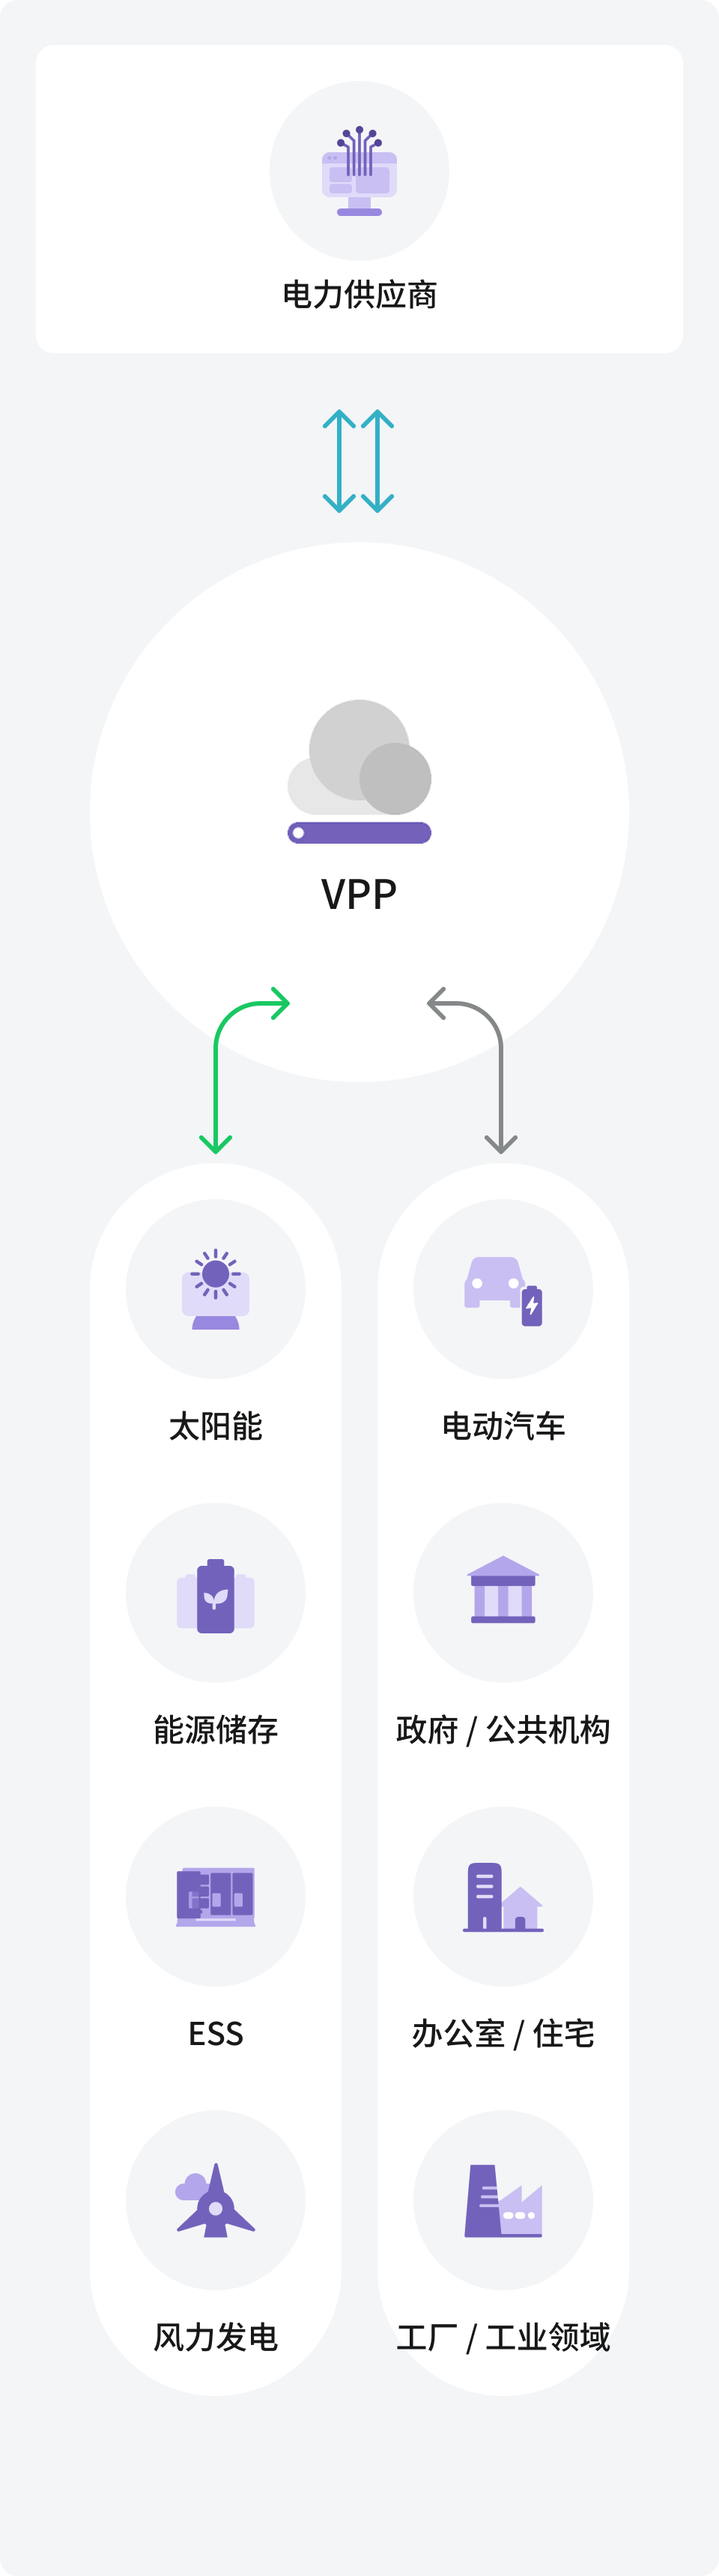
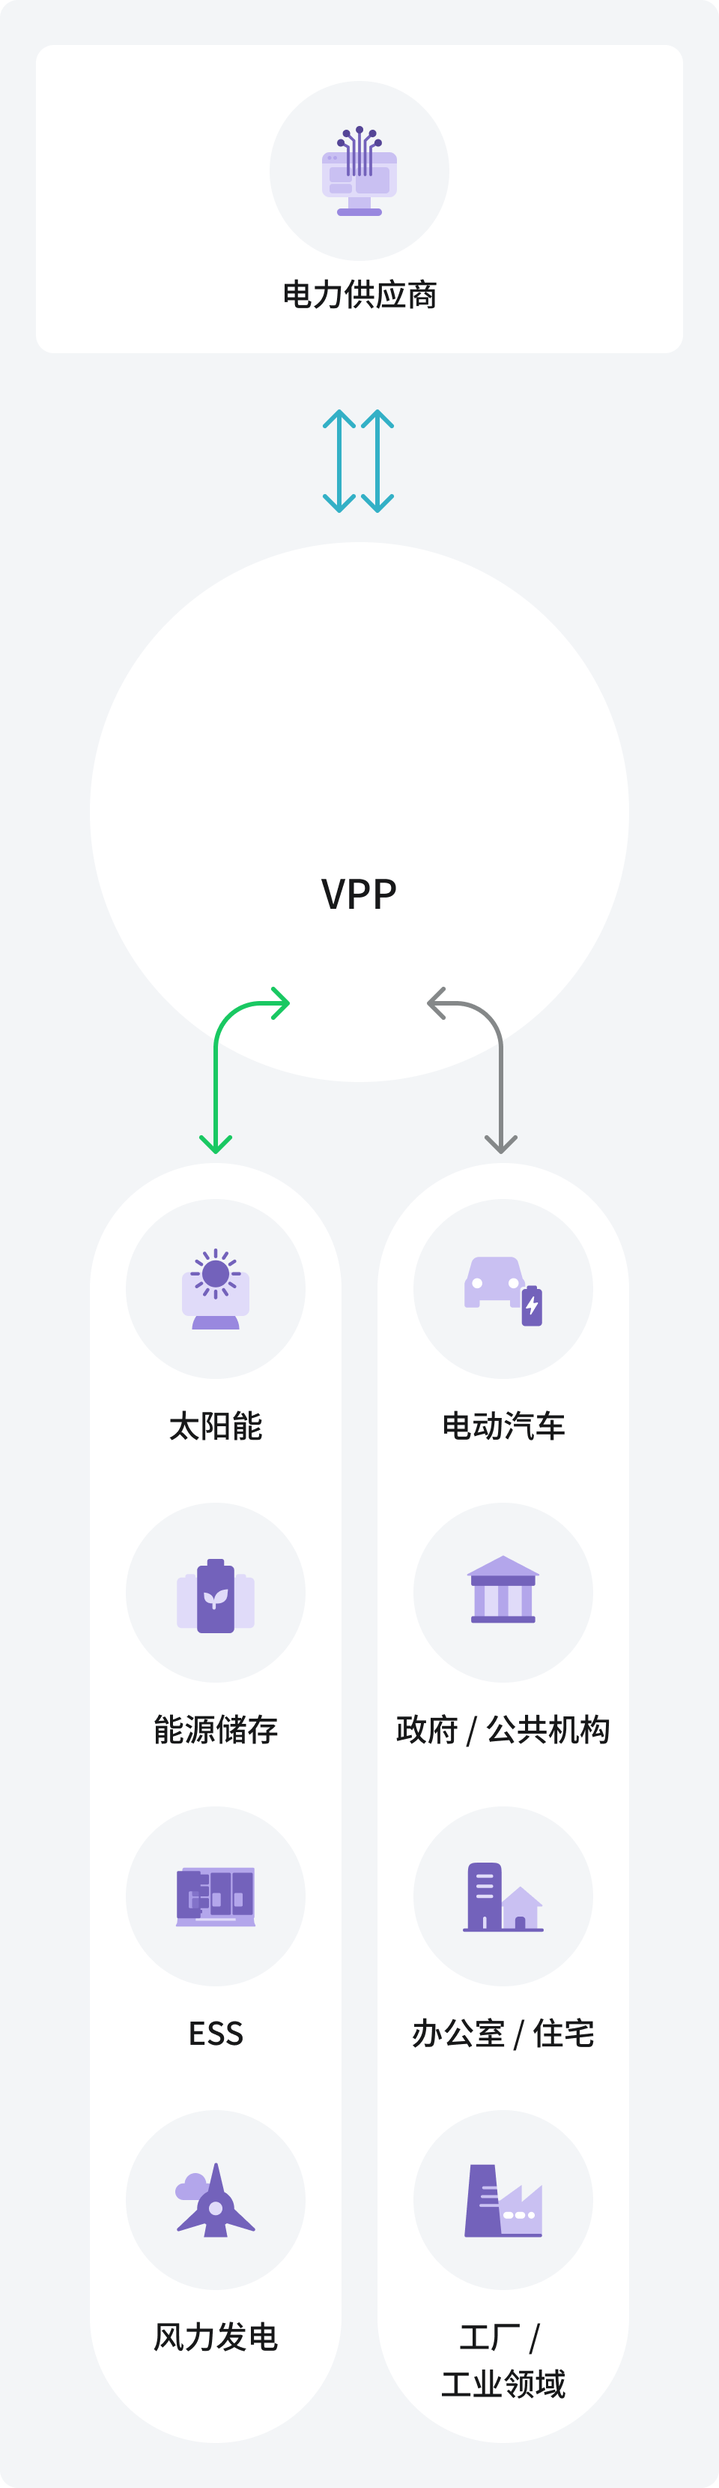
중문 전력중개 로티영역 이미지 수정

diff --git a/public/inc/css/media/pages.css b/public/inc/css/media/pages.css
@@ -1711,6 +1711,8 @@
 .serv-trading:lang(en) #content01 .article-img .lottie-wrap {top: 18.38rem; left: 50%; transform: translateX(-50%);}
 .serv-trading:lang(en) #content02 .article-img {margin-inline: 0;}
 
+.serv-trading:lang(zh-CN) #content01 .article-img .lottie-wrap {top: 19.44rem;}
+
 .serv-trading:lang(pl) #content01 .article-img .lottie-wrap {top: 18.06rem;}
 
 /* 서비스 - B.around */

diff --git a/public/inc/css/Default/pages.css b/public/inc/css/Default/pages.css
@@ -2040,6 +2040,8 @@
 
 .serv-trading:lang(en) #content01 .article-img .lottie-wrap {top:22.41rem; left: 30.375rem;}
 
+.serv-trading:lang(zh-CN) #content01 .article-img .lottie-wrap {top: 22.41rem;}
+
 /* 서비스 - B.around */
 .serv-baround .brand-info {display: flex; flex-direction: column; align-items: center; margin-top: 5rem;}
 .serv-baround .brand-info .brand-logo {width: 40.6875rem;}
